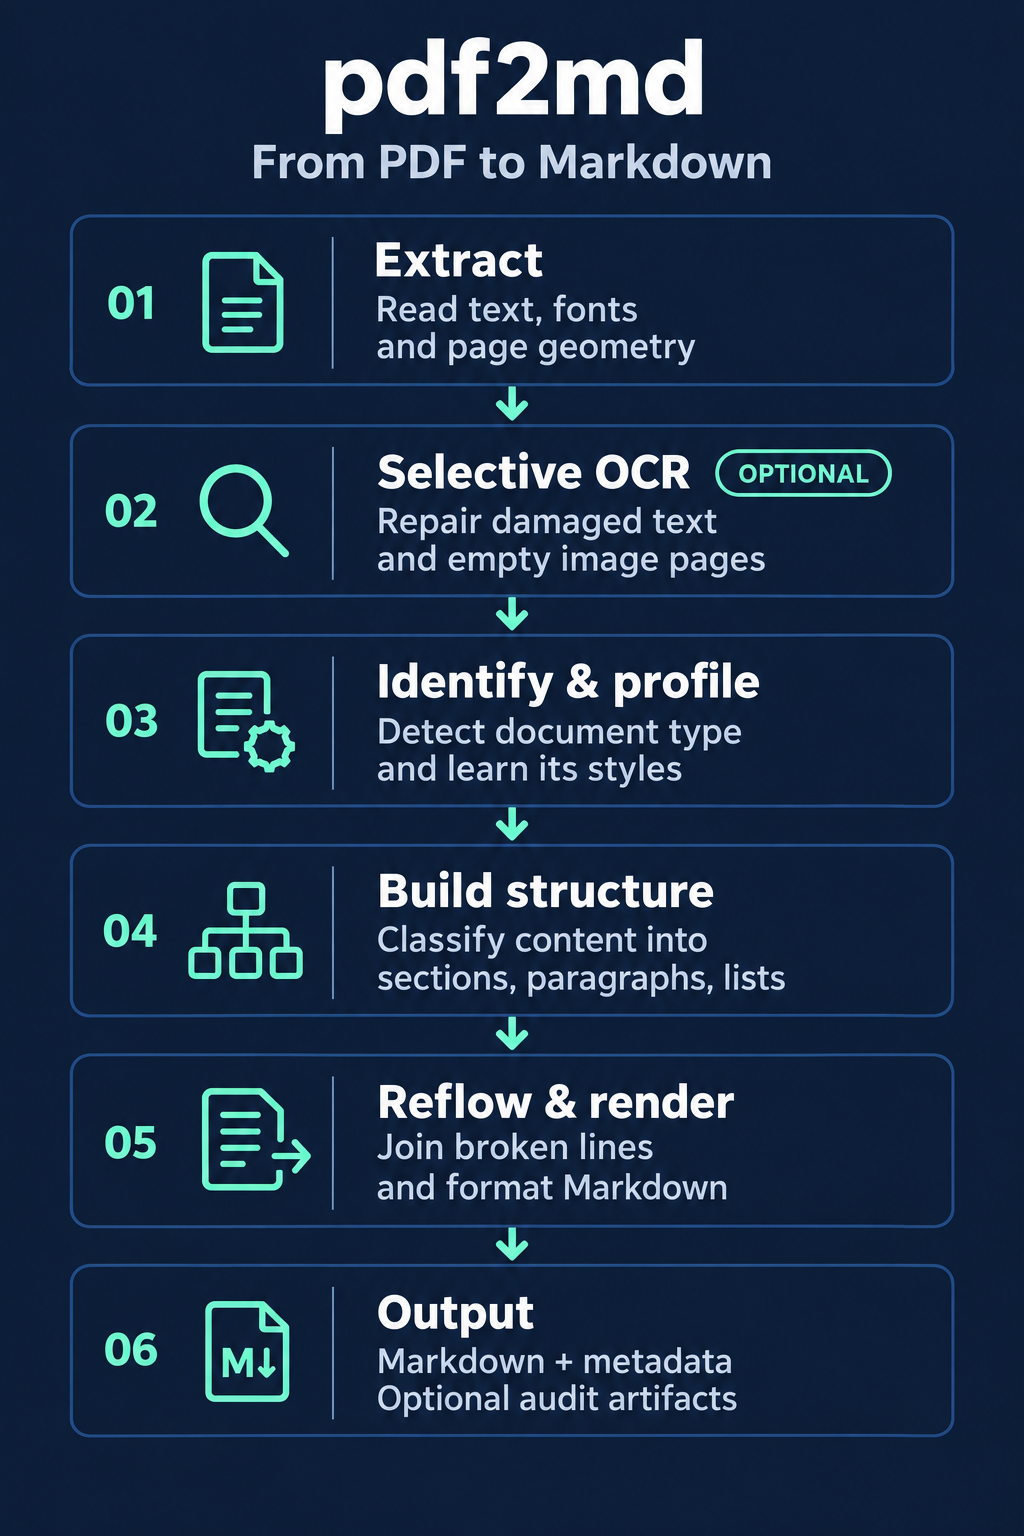
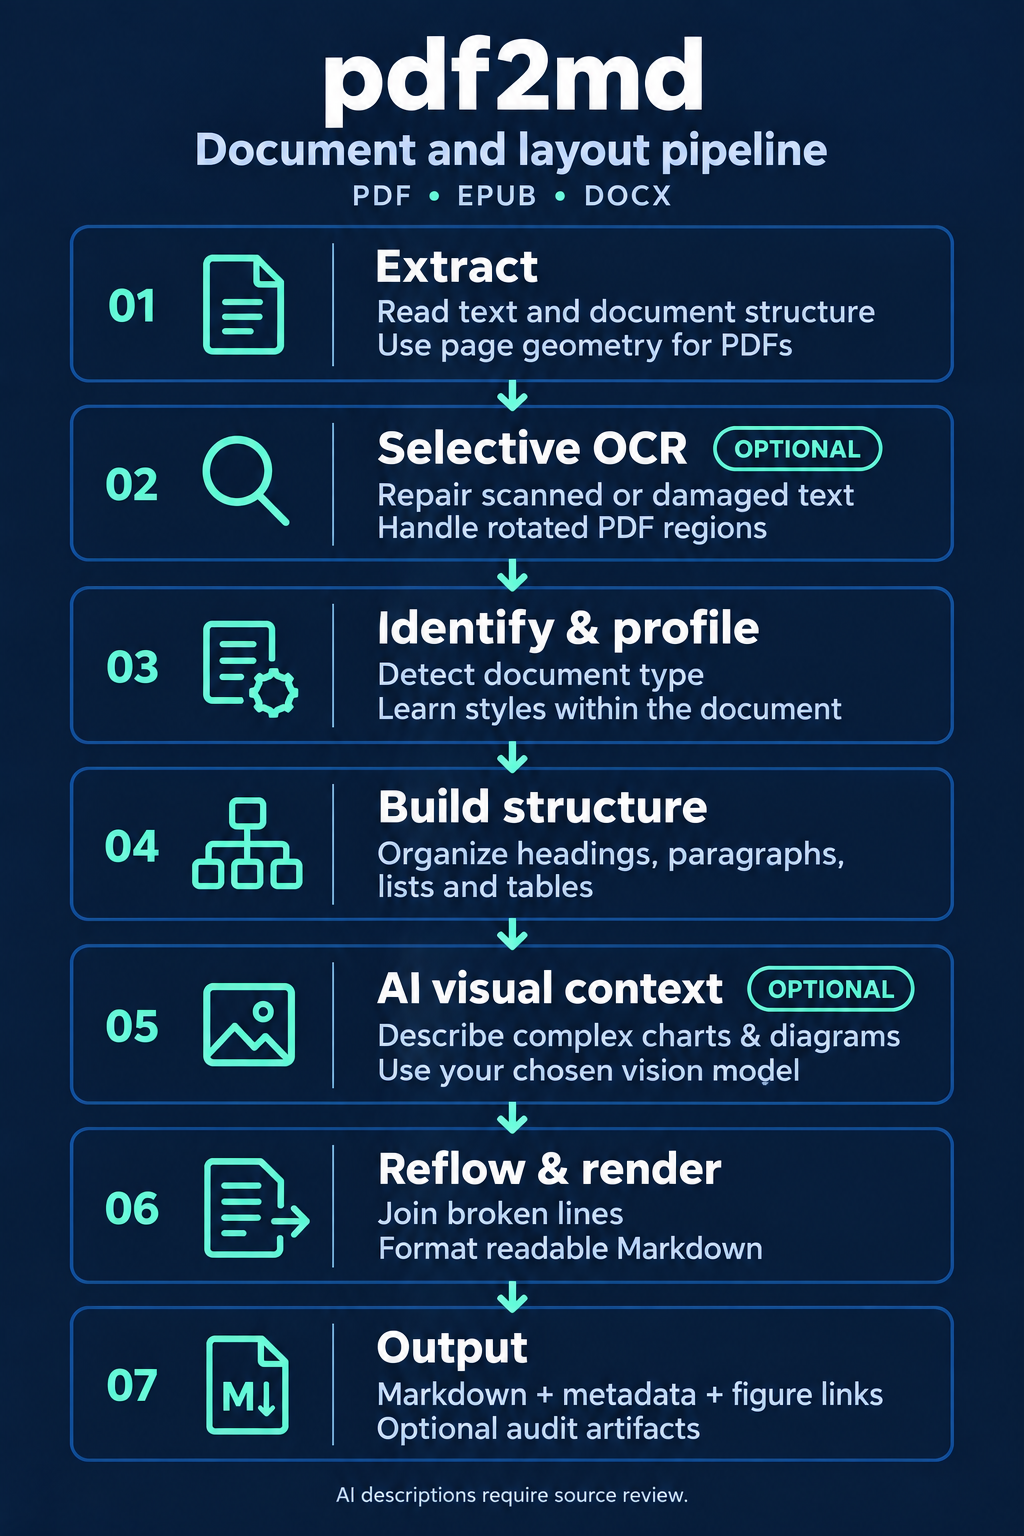
Update document pipeline diagram with optional AI visual context

Changed region(s): [[0.0625, 0.0312, 0.9375, 1.0], [0.9062, 0.9062, 0.9375, 0.9375]]

diff --git a/README.md b/README.md
@@ -33,7 +33,7 @@ formats. The converter ships as one Python file with no required model download.
 
 <p align="center">
   <a href="docs/assets/pipeline.png">
-    <img src="docs/assets/pipeline.png" width="560" alt="pdf2md pipeline: extract text and geometry; optionally OCR damaged text; identify document type and learn styles; build content structure; reflow and render; output Markdown, metadata, and optional audit artifacts.">
+    <img src="docs/assets/pipeline.png" width="560" alt="pdf2md document and layout pipeline for PDF, EPUB, and DOCX: extract text and structure; optionally OCR scanned or damaged PDF regions; identify document type and learn styles; build content structure; optionally describe complex charts and diagrams with a user-selected vision model; reflow and render; output Markdown, metadata, figure links, and optional audit artifacts. AI descriptions require source review.">
   </a>
 </p>
 
